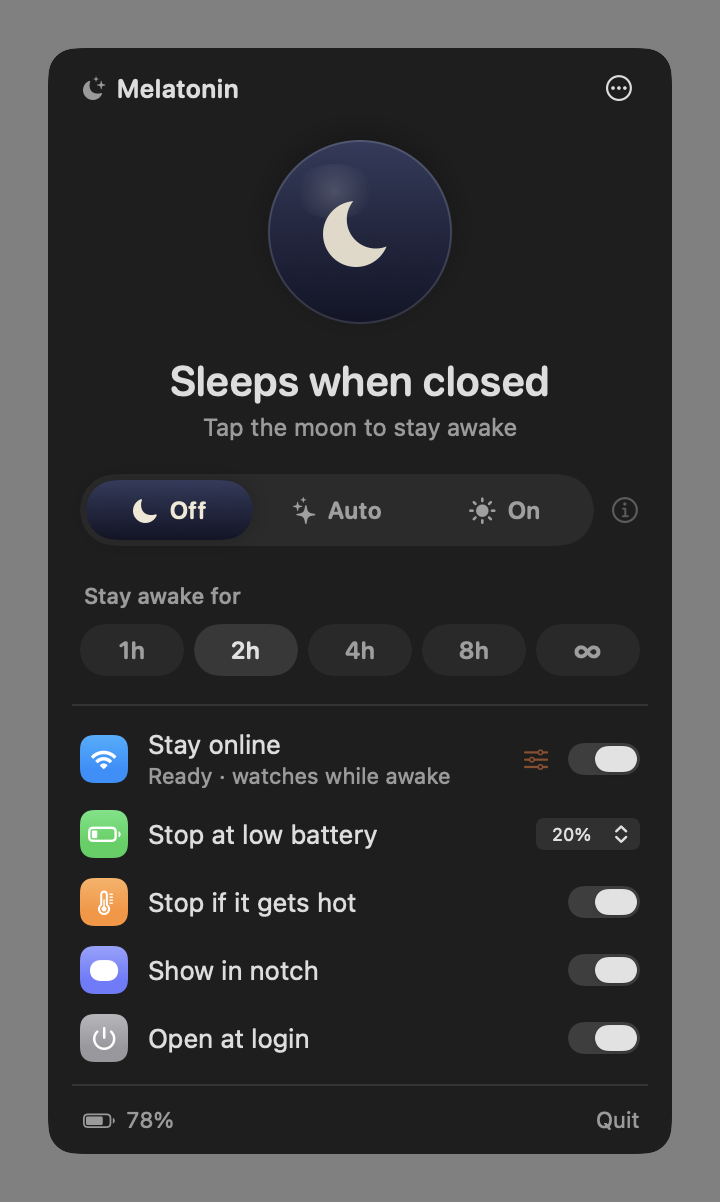
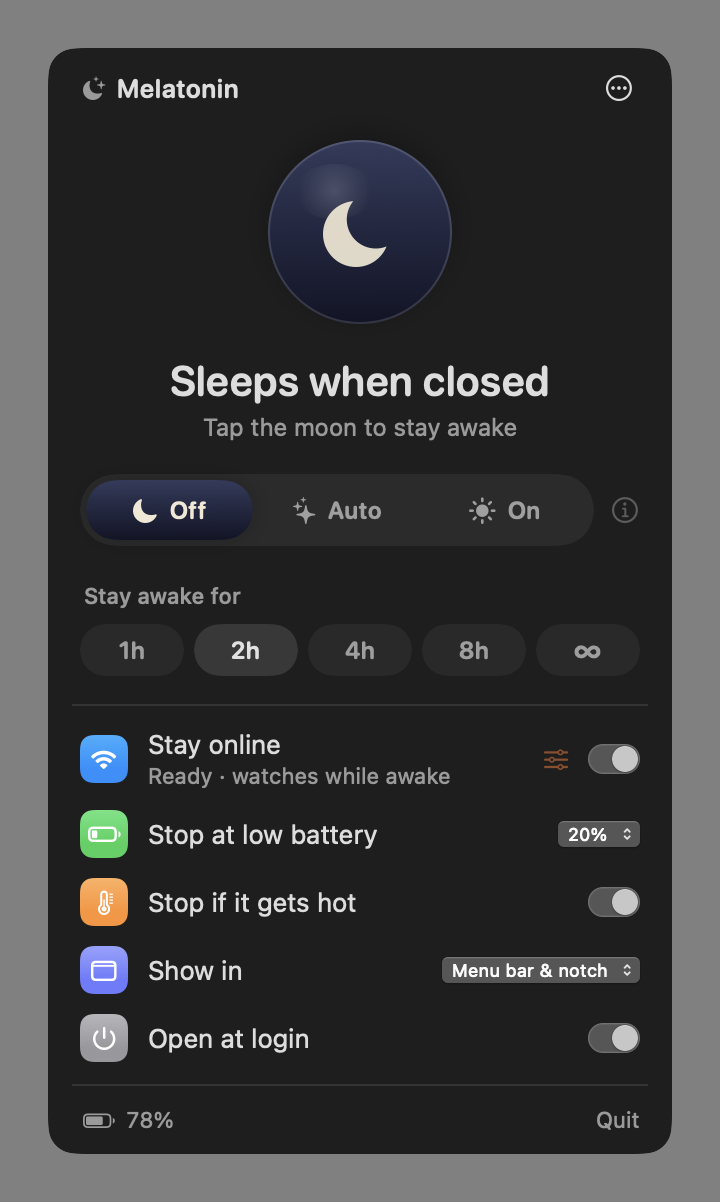
Docs: menu bar, notch or both; Antigravity in the agent list

diff --git a/docs/index.html b/docs/index.html
@@ -203,7 +203,7 @@
 
 <section class="wrap">
   <h2>Lives in your notch</h2>
-  <p class="sub">A warm lamp glows beside the camera while your Mac is staying up, with the time left. Hover to expand. No notch? It hangs from the menu bar instead.</p>
+  <p class="sub">A warm lamp glows beside the camera while your Mac is staying up, with the time left. Hover to expand. No notch? It hangs from the menu bar instead. Rather have just the menu bar icon, or just the notch? Pick either, or both.</p>
   <img class="wide-shot" src="images/notch-expanded-on.png" alt="Melatonin expanded in the notch" width="760" height="250" loading="lazy">
   <img class="wide-shot" src="images/notch-recap.png" alt="While you were away summary in the notch" width="760" height="250" loading="lazy">
   <div class="shots">

diff --git a/README.hi.md b/README.hi.md
@@ -43,10 +43,10 @@
 ## फ़ीचर्स
 
 - **आपके नॉच में रहता है।** Melatonin चालू होने पर कैमरे के बगल में एक गर्म रोशनी वाला लैंप जलता है और बचा हुआ समय दिखता है। उस पर माउस ले जाते ही पूरा कंट्रोल पैनल खुल जाता है। जिन डिस्प्ले में नॉच नहीं है, वहाँ यह पिल मेन्यू बार से लटकी दिखती है।
-- **मेन्यू बार स्विच।** आधे चाँद की सिर्फ़ आउटलाइन का मतलब है कि आपका Mac स्लीप में चला जाएगा; आधे चाँद में एम्बर लैंप दिखे, तो मतलब वह जागता रहेगा।
+- **मेन्यू बार स्विच।** आधे चाँद की सिर्फ़ आउटलाइन का मतलब है कि आपका Mac स्लीप में चला जाएगा; आधे चाँद में एम्बर लैंप दिखे, तो मतलब वह जागता रहेगा। **यहाँ दिखाएँ** में मेन्यू बार, नॉच या दोनों में से चुनें।
 - **टाइमर।** 1, 2, 4 या 8 घंटे, या जब तक आप खुद बंद न करें।
 - **चाँद, ऑटो, लैंप।** लैंप के नीचे एक ही स्विच: **बंद** पर Mac सामान्य रूप से स्लीप करता है, **ऑटो** पर सिर्फ़ एजेंट के काम करने तक जागा रहता है, **चालू** पर टाइमर खत्म होने तक जागा रहता है और फिर पिछले मोड पर लौट आता है।
-- **AI एजेंट के लिए ऑटो।** Mac तभी जागता रहता है जब कोई एजेंट सच में काम कर रहा हो: Claude Code, Codex, Hermes, OpenCode, T3 Code, Gemini CLI, Cursor Agent, Amp, Goose या Crush। पहचान के लिए हर एजेंट के पूरे process tree की CPU गतिविधि देखी जाती है, इसलिए प्रॉम्प्ट पर खाली बैठा एजेंट नहीं गिना जाता। Claude Code और Codex के सेशन लॉग भी पढ़े जाते हैं, इसलिए मॉडल का लंबा जवाब, चुपचाप चलती कमांड या बैकग्राउंड सबएजेंट भी काम में गिने जाते हैं। T3 Code से चलाए गए एजेंट T3 Code के खाते में गिने जाते हैं।
+- **AI एजेंट के लिए ऑटो।** Mac तभी जागता रहता है जब कोई एजेंट सच में काम कर रहा हो: Claude Code, Codex, Hermes, OpenCode, T3 Code, Gemini CLI, Cursor Agent, Amp, Goose, Crush या Antigravity। पहचान के लिए हर एजेंट के पूरे process tree की CPU गतिविधि देखी जाती है, इसलिए प्रॉम्प्ट पर खाली बैठा एजेंट नहीं गिना जाता। Claude Code और Codex के सेशन लॉग भी पढ़े जाते हैं, इसलिए मॉडल का लंबा जवाब, चुपचाप चलती कमांड या बैकग्राउंड सबएजेंट भी काम में गिने जाते हैं। T3 Code से चलाए गए एजेंट T3 Code के खाते में गिने जाते हैं।
 - **ऑनलाइन रहें।** Melatonin जब आपके Mac को जगाए रखता है और इंटरनेट कट जाता है, जैसे ढक्कन बंद करके ऑफ़िस के Wi-Fi से बाहर निकलने पर, तो यह आपके सेव किए गए नेटवर्क में से चुनी गई प्राथमिकता सूची में रेंज में मौजूद पहले नेटवर्क से जुड़ जाता है, जैसे आपके फ़ोन का हॉटस्पॉट। नाम से नेटवर्क चुनने के लिए लोकेशन की अनुमति चाहिए, क्योंकि macOS Wi-Fi के नाम सिर्फ़ उन्हीं ऐप को दिखाता है जिनके पास यह अनुमति हो; आपकी लोकेशन कभी इस्तेमाल नहीं होती। कोई भी काम न करे तो यह Wi-Fi को रीस्टार्ट करता है ताकि macOS खुद किसी सेव किए गए नेटवर्क से जुड़ जाए।
 - **आपकी गैरमौजूदगी में।** Mac पर लौटने पर नॉच बताता है कि क्या हुआ: Melatonin ने कितनी देर जगाए रखा, किन एजेंट ने कितनी देर काम किया, Wi-Fi कितनी बार कटकर फिर जुड़ा और कितनी बैटरी खर्च हुई।
 - **सुरक्षा सबसे पहले।**

diff --git a/README.ru.md b/README.ru.md
@@ -43,10 +43,10 @@
 ## Возможности
 
 - **Живет в вырезе.** Когда Melatonin включен, рядом с камерой загорается теплая лампа и видно, сколько времени осталось. Наведите курсор — откроется полная панель управления. На дисплеях без выреза плашка просто свисает со строки меню.
-- **Переключатель в строке меню.** Контур полумесяца — Mac уснет; полумесяц с янтарной лампой внутри — не уснет.
+- **Переключатель в строке меню.** Контур полумесяца — Mac уснет; полумесяц с янтарной лампой внутри — не уснет. В пункте **Показывать** можно выбрать строку меню, вырез или и то, и другое.
 - **Таймеры.** 1, 2, 4 или 8 часов — или пока вы сами не выключите.
 - **Луна, авто, лампа.** Один переключатель под лампой: «**Выкл.**» — Mac засыпает как обычно, «**Авто**» — не спит, только пока работают агенты, «**Вкл.**» — не спит до конца таймера, а потом возвращается в прежний режим.
-- **Авторежим для ИИ-агентов.** Mac не спит, только пока агент действительно работает: Claude Code, Codex, Hermes, OpenCode, T3 Code, Gemini CLI, Cursor Agent, Amp, Goose или Crush. Melatonin следит за загрузкой CPU во всем дереве процессов каждого агента, так что агент, который просто ждет вашего ввода, не в счет. Для Claude Code и Codex Melatonin ещё читает журналы сессий, поэтому долгий ответ модели, тихая команда или фоновый субагент тоже считаются работой. Агенты, запущенные из T3 Code, засчитываются T3 Code.
+- **Авторежим для ИИ-агентов.** Mac не спит, только пока агент действительно работает: Claude Code, Codex, Hermes, OpenCode, T3 Code, Gemini CLI, Cursor Agent, Amp, Goose, Crush или Antigravity. Melatonin следит за загрузкой CPU во всем дереве процессов каждого агента, так что агент, который просто ждет вашего ввода, не в счет. Для Claude Code и Codex Melatonin ещё читает журналы сессий, поэтому долгий ответ модели, тихая команда или фоновый субагент тоже считаются работой. Агенты, запущенные из T3 Code, засчитываются T3 Code.
 - **Оставаться на связи.** Если интернет пропадёт, пока Melatonin не даёт Mac уснуть (например, вы закрыли крышку и вышли из зоны офисного Wi-Fi), он подключится к первой доступной сети из списка приоритетов, который вы выбираете среди сохранённых сетей, например к точке доступа телефона. Чтобы выбирать сети по имени, нужен доступ к геопозиции: macOS показывает имена Wi-Fi только приложениям с этим доступом, а само местоположение не используется. Если ни одна сеть не подошла, он перезапускает Wi-Fi, чтобы macOS сама подключилась к сохранённой сети.
 - **Пока вас не было.** Когда вы вернётесь, вырез расскажет, что произошло: сколько Melatonin не давал Mac уснуть, какие агенты и сколько работали, сколько раз восстанавливалось Wi-Fi и сколько ушло заряда.
 - **Безопасность прежде всего.**

diff --git a/README.ar.md b/README.ar.md
@@ -49,10 +49,10 @@
 ## الميزات
 
 - **يسكن في النتوء.** عندما يكون Melatonin قيد التشغيل، يتوهّج مصباح دافئ بجوار الكاميرا ومعه الوقت المتبقي. مرّر المؤشر فوقه لتظهر لوحة التحكم كاملة. وعلى الشاشات التي لا تحتوي على نتوء، تتدلّى الكبسولة من شريط القوائم بدلًا من ذلك.
-- **مفتاح في شريط القوائم.** هلال مفرَّغ يعني أن جهاز Mac سيدخل في الإسبات، وهلال يحتضن مصباحًا كهرمانيًا يعني أنه لن يفعل.
+- **مفتاح في شريط القوائم.** هلال مفرَّغ يعني أن جهاز Mac سيدخل في الإسبات، وهلال يحتضن مصباحًا كهرمانيًا يعني أنه لن يفعل. ومن **العرض في** اختر شريط القوائم أو النتوء أو كليهما.
 - **مؤقتات.** لمدة 1 أو 2 أو 4 أو 8 ساعات، أو حتى تُوقفه بنفسك.
 - **قمر، تلقائي، مصباح.** مفتاح واحد أسفل المصباح: **إيقاف** يترك جهاز Mac ينام، و**تلقائي** يبقيه مستيقظًا فقط أثناء عمل الوكلاء، و**تشغيل** يبقيه مستيقظًا حتى ينتهي المؤقت ثم يعود إلى الوضع السابق.
-- **تلقائي لوكلاء الذكاء الاصطناعي.** يبقى الجهاز مستيقظًا فقط ما دام أحد الوكلاء يعمل فعلًا: Claude Code أو Codex أو Hermes أو OpenCode أو T3 Code أو Gemini CLI أو Cursor Agent أو Amp أو Goose أو Crush. يعتمد الاكتشاف على نشاط المعالج عبر شجرة العمليات الخاصة بكل وكيل، لذا لا يُحتسب الوكيل الذي يقف خاملًا بانتظار أوامرك. ويقرأ أيضًا سجلات جلسات Claude Code وCodex، لذا يُحتسب الردّ الطويل من النموذج أو الأمر الذي يعمل بهدوء أو الوكيل الفرعي في الخلفية عملًا أيضًا. والوكلاء الذين يُطلقهم T3 Code يُحتسبون لـ T3 Code.
+- **تلقائي لوكلاء الذكاء الاصطناعي.** يبقى الجهاز مستيقظًا فقط ما دام أحد الوكلاء يعمل فعلًا: Claude Code أو Codex أو Hermes أو OpenCode أو T3 Code أو Gemini CLI أو Cursor Agent أو Amp أو Goose أو Crush أو Antigravity. يعتمد الاكتشاف على نشاط المعالج عبر شجرة العمليات الخاصة بكل وكيل، لذا لا يُحتسب الوكيل الذي يقف خاملًا بانتظار أوامرك. ويقرأ أيضًا سجلات جلسات Claude Code وCodex، لذا يُحتسب الردّ الطويل من النموذج أو الأمر الذي يعمل بهدوء أو الوكيل الفرعي في الخلفية عملًا أيضًا. والوكلاء الذين يُطلقهم T3 Code يُحتسبون لـ T3 Code.
 - **البقاء متصلًا.** إذا انقطع الإنترنت بينما يُبقي Melatonin جهاز Mac مستيقظًا، مثلًا عندما تغلق الغطاء وتغادر نطاق Wi-Fi المكتب، فإنه يتصل بأول شبكة في النطاق من قائمة أولويات تختارها من شبكاتك المحفوظة، مثل نقطة اتصال هاتفك. يتطلب اختيار الشبكات بالاسم إذن الوصول إلى الموقع، لأن macOS لا يعرض أسماء شبكات Wi-Fi إلا للتطبيقات التي تملكه، ولا يُستخدم موقعك أبدًا. وإذا لم تنجح أي منها، يعيد تشغيل Wi-Fi ليعود macOS تلقائيًا إلى شبكة محفوظة.
 - **أثناء غيابك.** عندما تعود إلى جهاز Mac، تخبرك منطقة النتوء بما حدث: كم من الوقت أبقاه Melatonin مستيقظًا، وأي الوكلاء عملوا ولكم من الوقت، وكم مرة استُعيد اتصال Wi-Fi، وكم استُهلك من البطارية.
 - **الأمان أولًا.**

diff --git a/README.ja.md b/README.ja.md
@@ -43,10 +43,10 @@ Claude Codeに長いタスクを任せ、フタを閉じて席を離れる。す
 ## 機能
 
 - **ノッチに住む**：Melatoninがオンの間は、カメラの横に暖かなランプが灯り、残り時間を表示します。ポインタを重ねると、すべての操作ができるパネルに広がります。ノッチのないディスプレイでは、代わりにメニューバーから吊り下がるピル型で表示されます。
-- **メニューバーのスイッチ**：三日月の輪郭だけならMacはスリープします。三日月が琥珀色のランプを抱えていれば、スリープしません。
+- **メニューバーのスイッチ**：三日月の輪郭だけならMacはスリープします。三日月が琥珀色のランプを抱えていれば、スリープしません。**表示場所**で、メニューバー・ノッチ・その両方から選べます。
 - **タイマー**：1、2、4、8時間、またはオフにするまで。
 - **月・自動・ランプ**：ランプの下のスイッチひとつで切り替えます。**オフ**なら Mac は普通にスリープ、**自動**ならエージェントが作業している間だけ起きたまま、**オン**ならタイマーが終わるまで起きていて、その後もとのモードに戻ります。
-- **AIエージェント自動モード**：Claude Code、Codex、Hermes、OpenCode、T3 Code、Gemini CLI、Cursor Agent、Amp、Goose、Crushが実際に作業している間だけ起きています。各エージェントのプロセスツリー全体のCPU使用状況を見て判定するので、プロンプトで待機しているだけのエージェントはカウントされません。Claude CodeとCodexはセッションログも読むので、モデルの長い応答待ちや静かに動くコマンド、バックグラウンドのサブエージェントも作業中として扱います。T3 Codeから起動されたエージェントはT3 Codeとして扱われます。
+- **AIエージェント自動モード**：Claude Code、Codex、Hermes、OpenCode、T3 Code、Gemini CLI、Cursor Agent、Amp、Goose、Crush、Antigravityが実際に作業している間だけ起きています。各エージェントのプロセスツリー全体のCPU使用状況を見て判定するので、プロンプトで待機しているだけのエージェントはカウントされません。Claude CodeとCodexはセッションログも読むので、モデルの長い応答待ちや静かに動くコマンド、バックグラウンドのサブエージェントも作業中として扱います。T3 Codeから起動されたエージェントはT3 Codeとして扱われます。
 - **オンラインを維持**：Melatonin が Mac を起こしている間にインターネットが切れたら（たとえばフタを閉じてオフィスの Wi-Fi 圏外に出たとき）、保存済みネットワークから選んだ優先順位リストの上から、圏内にある最初のネットワーク（スマホのテザリングなど）に接続します。名前でネットワークを選ぶには位置情報の許可が必要です。macOS は位置情報を許可したアプリにしか Wi-Fi 名を見せないためで、位置そのものは使いません。どれもつながらなければ Wi-Fi を再起動し、macOS が保存済みネットワークに自動で再接続できるようにします。
 - **離席中のできごと**：Mac に戻るとノッチがその間のことを教えてくれます。どれだけ起こしておいたか、どのエージェントがどれくらい作業したか、Wi-Fi の切断から何回復旧したか、バッテリーをどれだけ使ったか。
 - **安全第一**：

diff --git a/README.fr.md b/README.fr.md
@@ -43,10 +43,10 @@ Les apps anti-veille comme `caffeinate`, KeepingYouAwake et la plupart de leurs 
 ## Fonctionnalités
 
 - **Niché dans l’encoche.** Quand Melatonin est activé, une lampe chaleureuse s’allume à côté de la caméra et affiche le temps restant. Survolez-la pour déployer toutes les commandes. Sur les écrans sans encoche, la pastille se suspend à la barre des menus.
-- **Interrupteur dans la barre des menus.** Un simple contour de croissant de lune : votre Mac se mettra en veille. Un croissant qui tient une lampe ambrée : il restera éveillé.
+- **Interrupteur dans la barre des menus.** Un simple contour de croissant de lune : votre Mac se mettra en veille. Un croissant qui tient une lampe ambrée : il restera éveillé. Dans **Afficher dans**, choisissez la barre des menus, l’encoche ou les deux.
 - **Minuteurs.** 1, 2, 4 ou 8 heures, ou jusqu’à ce que vous le désactiviez.
 - **Lune, auto, lampe.** Un seul interrupteur sous la lampe : **Désactivé** laisse votre Mac se mettre en veille, **Auto** le garde éveillé seulement pendant que les agents travaillent, **Activé** le garde éveillé jusqu’à la fin du minuteur, puis revient au mode précédent.
-- **Auto pour les agents IA.** Reste éveillé uniquement quand un agent travaille vraiment : Claude Code, Codex, Hermes, OpenCode, T3 Code, Gemini CLI, Cursor Agent, Amp, Goose ou Crush. La détection surveille l’activité CPU de toute l’arborescence de processus de chaque agent : un agent qui attend sagement à son invite ne compte donc pas. Melatonin lit aussi les journaux de session de Claude Code et Codex : une longue réponse du modèle, une commande silencieuse ou un sous-agent en arrière-plan comptent donc bien comme du travail. Les agents lancés par T3 Code sont attribués à T3 Code.
+- **Auto pour les agents IA.** Reste éveillé uniquement quand un agent travaille vraiment : Claude Code, Codex, Hermes, OpenCode, T3 Code, Gemini CLI, Cursor Agent, Amp, Goose, Crush ou Antigravity. La détection surveille l’activité CPU de toute l’arborescence de processus de chaque agent : un agent qui attend sagement à son invite ne compte donc pas. Melatonin lit aussi les journaux de session de Claude Code et Codex : une longue réponse du modèle, une commande silencieuse ou un sous-agent en arrière-plan comptent donc bien comme du travail. Les agents lancés par T3 Code sont attribués à T3 Code.
 - **Rester en ligne.** Si Internet est coupé pendant que Melatonin garde votre Mac éveillé, par exemple quand vous fermez l’écran et quittez le Wi-Fi du bureau, il rejoint le premier réseau à portée d’une liste de priorité que vous choisissez parmi vos réseaux enregistrés, comme le partage de connexion de votre téléphone. Choisir un réseau par son nom demande l’accès à la position, car macOS ne montre les noms Wi-Fi qu’aux apps qui l’ont ; votre position n’est jamais utilisée. Si aucun ne fonctionne, il redémarre le Wi-Fi pour que macOS rejoigne seul un réseau enregistré.
 - **Pendant votre absence.** À votre retour, l’encoche résume ce qui s’est passé : combien de temps Melatonin a gardé le Mac éveillé, quels agents ont travaillé et combien de temps, combien de coupures Wi-Fi ont été rattrapées et combien de batterie a été utilisée.
 - **La sécurité avant tout.**

diff --git a/README.de.md b/README.de.md
@@ -43,10 +43,10 @@ Wachhalte-Apps wie `caffeinate`, KeepingYouAwake und die meisten ihrer Verwandte
 ## Funktionen
 
 - **Wohnt in deiner Notch.** Ist Melatonin eingeschaltet, leuchtet neben der Kamera eine warme Lampe und zeigt die verbleibende Zeit. Fahr mit dem Zeiger darüber, und alle Bedienelemente klappen auf. Auf Displays ohne Notch hängt die Anzeige stattdessen an der Menüleiste.
-- **Schalter in der Menüleiste.** Nur der Umriss einer Mondsichel heißt: Dein Mac geht in den Ruhezustand. Hält die Sichel eine bernsteinfarbene Lampe, bleibt er wach.
+- **Schalter in der Menüleiste.** Nur der Umriss einer Mondsichel heißt: Dein Mac geht in den Ruhezustand. Hält die Sichel eine bernsteinfarbene Lampe, bleibt er wach. Unter **Anzeigen in** wählst du Menüleiste, Notch oder beides.
 - **Timer.** 1, 2, 4 oder 8 Stunden – oder bis du es ausschaltest.
 - **Mond, Auto, Lampe.** Ein Schalter unter der Lampe: **Aus** lässt deinen Mac schlafen, **Auto** hält ihn nur wach, solange Agenten arbeiten, **Ein** hält ihn wach, bis der Timer abläuft, und kehrt dann zum vorherigen Modus zurück.
-- **Automatisch für KI-Agenten.** Bleibt nur wach, solange ein Agent wirklich arbeitet: Claude Code, Codex, Hermes, OpenCode, T3 Code, Gemini CLI, Cursor Agent, Amp, Goose oder Crush. Die Erkennung prüft die CPU-Aktivität im gesamten Prozessbaum jedes Agenten. Ein Agent, der untätig am Prompt wartet, zählt also nicht. Bei Claude Code und Codex liest Melatonin außerdem die Sitzungsprotokolle, sodass eine lange Modellantwort, ein leiser Befehl oder ein Subagent im Hintergrund trotzdem als Arbeit zählt. Von T3 Code gestartete Agenten werden T3 Code zugerechnet.
+- **Automatisch für KI-Agenten.** Bleibt nur wach, solange ein Agent wirklich arbeitet: Claude Code, Codex, Hermes, OpenCode, T3 Code, Gemini CLI, Cursor Agent, Amp, Goose, Crush oder Antigravity. Die Erkennung prüft die CPU-Aktivität im gesamten Prozessbaum jedes Agenten. Ein Agent, der untätig am Prompt wartet, zählt also nicht. Bei Claude Code und Codex liest Melatonin außerdem die Sitzungsprotokolle, sodass eine lange Modellantwort, ein leiser Befehl oder ein Subagent im Hintergrund trotzdem als Arbeit zählt. Von T3 Code gestartete Agenten werden T3 Code zugerechnet.
 - **Online bleiben.** Fällt das Internet aus, während Melatonin deinen Mac wach hält, etwa wenn du den Deckel schließt und das Büro-WLAN verlässt, verbindet es sich mit dem ersten erreichbaren Netzwerk aus einer Prioritätsliste, die du aus deinen gespeicherten Netzwerken auswählst, zum Beispiel dem Hotspot deines Handys. Netzwerke nach Namen auszuwählen braucht Zugriff auf den Standort, weil macOS WLAN-Namen nur Apps mit dieser Berechtigung zeigt; dein Standort selbst wird nie verwendet. Klappt keines, startet es das WLAN neu, damit macOS selbst wieder einem gespeicherten Netzwerk beitritt.
 - **Während du weg warst.** Wenn du zurückkommst, zeigt dir die Notch, was passiert ist: wie lange Melatonin den Mac wach gehalten hat, welche Agenten wie lange gearbeitet haben, wie oft das WLAN wiederhergestellt wurde und wie viel Akku verbraucht wurde.
 - **Sicherheit zuerst.**

diff --git a/README.ko.md b/README.ko.md
@@ -43,10 +43,10 @@ Claude Code에 긴 작업을 맡기고 뚜껑을 닫고 자리를 비우면, 맥
 ## 기능
 
 - **노치에 살아요.** 켜져 있으면 카메라 옆에 따뜻한 램프가 빛나고 남은 시간이 보여요. 마우스를 올리면 전체 조작 패널로 펼쳐져요. 노치가 없는 모니터에서는 메뉴바 가운데에 알약 모양으로 붙어요.
-- **메뉴바 스위치.** 초승달 테두리만 보이면 잠드는 상태, 초승달이 주황 램프를 품고 있으면 깨어 있는 상태예요.
+- **메뉴바 스위치.** 초승달 테두리만 보이면 잠드는 상태, 초승달이 주황 램프를 품고 있으면 깨어 있는 상태예요. **표시 위치**에서 메뉴바, 노치, 둘 다 중에 고를 수 있어요.
 - **타이머.** 1·2·4·8시간, 또는 직접 끌 때까지.
 - **달 · 자동 · 해.** 램프 아래 스위치 하나로 정해요. **끔**은 맥이 잠들게 두고, **자동**은 에이전트가 일하는 동안만 깨워두고, **켬**은 타이머가 끝날 때까지 깨워둔 뒤 원래 모드로 돌아가요.
-- **AI 에이전트 자동 감지.** Claude Code, Codex, Hermes, OpenCode, T3 Code, Gemini CLI, Cursor Agent, Amp, Goose, Crush가 실제로 일하는 동안에만 깨어 있어요. 에이전트와 그 하위 프로세스의 CPU 사용량을 보기 때문에 프롬프트 앞에서 대기 중인 에이전트는 치지 않아요. Claude Code와 Codex는 대화 기록도 읽어서, 모델이 오래 생각하거나 조용히 도는 명령, 백그라운드 서브에이전트도 일하는 중으로 쳐요. T3 Code가 띄운 에이전트는 T3 Code로 표시돼요.
+- **AI 에이전트 자동 감지.** Claude Code, Codex, Hermes, OpenCode, T3 Code, Gemini CLI, Cursor Agent, Amp, Goose, Crush, Antigravity가 실제로 일하는 동안에만 깨어 있어요. 에이전트와 그 하위 프로세스의 CPU 사용량을 보기 때문에 프롬프트 앞에서 대기 중인 에이전트는 치지 않아요. Claude Code와 Codex는 대화 기록도 읽어서, 모델이 오래 생각하거나 조용히 도는 명령, 백그라운드 서브에이전트도 일하는 중으로 쳐요. T3 Code가 띄운 에이전트는 T3 Code로 표시돼요.
 - **연결 유지.** 맥이 깨어 있는 동안 인터넷이 끊기면(예: 뚜껑을 닫고 사무실 Wi-Fi 범위를 벗어났을 때), 저장된 네트워크 중에서 고른 우선순위 목록을 위에서부터 보고 범위 안에 있는 첫 번째 네트워크(휴대폰 핫스팟 등)에 연결해요. 이름으로 네트워크를 고르려면 위치 권한이 필요해요. macOS가 위치 권한이 있는 앱에만 Wi-Fi 이름을 보여주기 때문이고, 위치 자체는 쓰지 않아요. 모두 실패하면 Wi-Fi를 껐다 켜서 macOS가 저장된 네트워크에 알아서 붙게 해요.
 - **자리 비운 사이.** 맥으로 돌아오면 노치가 그동안 있었던 일을 알려줘요. 얼마나 깨워뒀는지, 어떤 에이전트가 얼마나 일했는지, Wi-Fi 끊김을 몇 번 복구했는지, 배터리를 얼마나 썼는지요.
 - **안전장치.**

diff --git a/README.es.md b/README.es.md
@@ -43,10 +43,10 @@ Las apps para mantener el Mac despierto, como `caffeinate`, KeepingYouAwake y ca
 ## Funciones
 
 - **Vive en tu notch.** Cuando Melatonin está activado, una lámpara cálida brilla junto a la cámara con el tiempo restante. Pasa el puntero por encima para desplegar todos los controles. En pantallas sin notch, la píldora cuelga de la barra de menús.
-- **Interruptor en la barra de menús.** Si ves solo el contorno de una media luna, tu Mac se dormirá; si la media luna sostiene una lámpara ámbar, no.
+- **Interruptor en la barra de menús.** Si ves solo el contorno de una media luna, tu Mac se dormirá; si la media luna sostiene una lámpara ámbar, no. En **Mostrar en** eliges la barra de menús, el notch o ambos.
 - **Temporizadores.** 1, 2, 4 u 8 horas, o hasta que lo desactives.
 - **Luna, auto, lámpara.** Un solo interruptor bajo la lámpara: **Desactivado** deja dormir a tu Mac, **Auto** lo mantiene despierto solo mientras trabajan los agentes y **Activado** lo mantiene despierto hasta que termina el temporizador; después vuelve al modo anterior.
-- **Automático con agentes de IA.** Se mantiene despierto solo mientras un agente está trabajando de verdad: Claude Code, Codex, Hermes, OpenCode, T3 Code, Gemini CLI, Cursor Agent, Amp, Goose o Crush. La detección mira la actividad de CPU de todo el árbol de procesos de cada agente, así que un agente esperando en su prompt no cuenta. Además lee los registros de sesión de Claude Code y Codex, así que una respuesta larga del modelo, un comando silencioso o un subagente en segundo plano también cuentan como trabajo. Los agentes que lanza T3 Code se atribuyen a T3 Code.
+- **Automático con agentes de IA.** Se mantiene despierto solo mientras un agente está trabajando de verdad: Claude Code, Codex, Hermes, OpenCode, T3 Code, Gemini CLI, Cursor Agent, Amp, Goose, Crush o Antigravity. La detección mira la actividad de CPU de todo el árbol de procesos de cada agente, así que un agente esperando en su prompt no cuenta. Además lee los registros de sesión de Claude Code y Codex, así que una respuesta larga del modelo, un comando silencioso o un subagente en segundo plano también cuentan como trabajo. Los agentes que lanza T3 Code se atribuyen a T3 Code.
 - **Seguir conectado.** Si se cae internet mientras Melatonin mantiene tu Mac despierto, por ejemplo al cerrar la tapa y salir del Wi-Fi de la oficina, se conecta a la primera red al alcance de una lista de prioridad que eliges entre tus redes guardadas, como el punto de acceso de tu teléfono. Elegir redes por nombre requiere acceso a la ubicación, porque macOS solo muestra los nombres de Wi-Fi a las apps que lo tienen; tu ubicación nunca se usa. Si ninguna funciona, reinicia el Wi-Fi para que macOS vuelva a unirse a una red guardada por su cuenta.
 - **Mientras no estabas.** Al volver a tu Mac, el notch te cuenta qué pasó: cuánto tiempo lo mantuvo despierto Melatonin, qué agentes trabajaron y durante cuánto, de cuántas caídas de Wi-Fi se recuperó y cuánta batería usó.
 - **La seguridad, lo primero.**

diff --git a/README.pt-BR.md b/README.pt-BR.md
@@ -43,10 +43,10 @@ Apps para manter o Mac acordado, como `caffeinate`, KeepingYouAwake e a maioria 
 ## Recursos
 
 - **Mora no seu notch.** Quando o Melatonin está ativado, uma lâmpada de luz quente brilha ao lado da câmera mostrando o tempo restante. Passe o ponteiro por cima para abrir todos os controles. Em telas sem notch, a pílula fica pendurada na barra de menus.
-- **Interruptor na barra de menus.** Só o contorno de uma lua crescente: seu Mac vai dormir. Lua crescente com uma lâmpada âmbar: ele fica acordado.
+- **Interruptor na barra de menus.** Só o contorno de uma lua crescente: seu Mac vai dormir. Lua crescente com uma lâmpada âmbar: ele fica acordado. Em **Mostrar em**, escolha a barra de menus, o notch ou os dois.
 - **Timers.** 1, 2, 4 ou 8 horas, ou até você desativar.
 - **Lua, auto, lâmpada.** Um único seletor abaixo da lâmpada: **Desativado** deixa o Mac dormir, **Auto** o mantém acordado só enquanto os agentes trabalham e **Ativado** o mantém acordado até o timer acabar; depois volta ao modo anterior.
-- **Automático com agentes de IA.** Fica acordado só enquanto um agente está realmente trabalhando: Claude Code, Codex, Hermes, OpenCode, T3 Code, Gemini CLI, Cursor Agent, Amp, Goose ou Crush. A detecção observa a atividade de CPU em toda a árvore de processos de cada agente, então um agente parado no prompt não conta. Ele também lê os registros de sessão do Claude Code e do Codex, então uma resposta longa do modelo, um comando silencioso ou um subagente em segundo plano também contam como trabalho. Agentes iniciados pelo T3 Code contam como T3 Code.
+- **Automático com agentes de IA.** Fica acordado só enquanto um agente está realmente trabalhando: Claude Code, Codex, Hermes, OpenCode, T3 Code, Gemini CLI, Cursor Agent, Amp, Goose, Crush ou Antigravity. A detecção observa a atividade de CPU em toda a árvore de processos de cada agente, então um agente parado no prompt não conta. Ele também lê os registros de sessão do Claude Code e do Codex, então uma resposta longa do modelo, um comando silencioso ou um subagente em segundo plano também contam como trabalho. Agentes iniciados pelo T3 Code contam como T3 Code.
 - **Manter conexão.** Se a internet cair enquanto o Melatonin mantém seu Mac acordado, por exemplo quando você fecha a tampa e sai do Wi-Fi do escritório, ele entra na primeira rede ao alcance de uma lista de prioridade que você escolhe entre suas redes salvas, como o hotspot do seu celular. Escolher redes pelo nome exige acesso à localização, porque o macOS só mostra nomes de Wi-Fi para apps com esse acesso; sua localização nunca é usada. Se nenhuma funcionar, ele reinicia o Wi-Fi para o macOS voltar sozinho a uma rede salva.
 - **Enquanto você estava fora.** Ao voltar para o Mac, o notch conta o que aconteceu: quanto tempo o Melatonin o manteve acordado, quais agentes trabalharam e por quanto tempo, de quantas quedas de Wi-Fi ele se recuperou e quanta bateria foi usada.
 - **Segurança em primeiro lugar.**

diff --git a/README.id.md b/README.id.md
@@ -43,10 +43,10 @@ Aplikasi anti-tidur seperti `caffeinate`, KeepingYouAwake, dan sebagian besar ap
 ## Fitur
 
 - **Tinggal di notch.** Saat Melatonin menyala, lampu hangat berpendar di samping kamera beserta sisa waktunya. Arahkan kursor ke sana untuk membuka panel kontrol lengkap. Di layar tanpa notch, pil ini menggantung dari bar menu.
-- **Sakelar di bar menu.** Garis bulan sabit berarti Mac Anda akan tidur; bulan sabit yang memeluk lampu amber berarti Mac tetap terjaga.
+- **Sakelar di bar menu.** Garis bulan sabit berarti Mac Anda akan tidur; bulan sabit yang memeluk lampu amber berarti Mac tetap terjaga. Di **Tampilkan di**, pilih bar menu, notch, atau keduanya.
 - **Timer.** 1, 2, 4, atau 8 jam, atau sampai Anda mematikannya.
 - **Bulan, otomatis, lampu.** Satu sakelar di bawah lampu: **Mati** membiarkan Mac tidur, **Otomatis** membuatnya terjaga hanya selama agen bekerja, dan **Nyala** membuatnya terjaga sampai timer selesai, lalu kembali ke mode sebelumnya.
-- **Otomatis untuk agen AI.** Tetap terjaga hanya selama ada agen yang benar-benar bekerja: Claude Code, Codex, Hermes, OpenCode, T3 Code, Gemini CLI, Cursor Agent, Amp, Goose, atau Crush. Deteksinya melihat aktivitas CPU di seluruh pohon proses tiap agen, jadi agen yang cuma diam menunggu di prompt tidak dihitung. Untuk Claude Code dan Codex, Melatonin juga membaca log sesinya, jadi balasan model yang lama, perintah yang berjalan diam-diam, atau subagen di latar belakang tetap dihitung sebagai kerja. Agen yang dijalankan oleh T3 Code dihitung sebagai T3 Code.
+- **Otomatis untuk agen AI.** Tetap terjaga hanya selama ada agen yang benar-benar bekerja: Claude Code, Codex, Hermes, OpenCode, T3 Code, Gemini CLI, Cursor Agent, Amp, Goose, Crush, atau Antigravity. Deteksinya melihat aktivitas CPU di seluruh pohon proses tiap agen, jadi agen yang cuma diam menunggu di prompt tidak dihitung. Untuk Claude Code dan Codex, Melatonin juga membaca log sesinya, jadi balasan model yang lama, perintah yang berjalan diam-diam, atau subagen di latar belakang tetap dihitung sebagai kerja. Agen yang dijalankan oleh T3 Code dihitung sebagai T3 Code.
 - **Tetap online.** Jika internet terputus saat Melatonin membuat Mac tetap terjaga, misalnya saat kamu menutup layar dan keluar dari jangkauan Wi-Fi kantor, Melatonin tersambung ke jaringan pertama dalam jangkauan dari daftar prioritas yang kamu pilih dari jaringan tersimpan, seperti hotspot ponselmu. Memilih jaringan berdasarkan nama butuh izin lokasi, karena macOS hanya menampilkan nama Wi-Fi ke app yang punya izin itu; lokasimu sendiri tidak pernah dipakai. Jika semuanya gagal, Melatonin memulai ulang Wi-Fi agar macOS tersambung sendiri ke jaringan tersimpan.
 - **Selama kamu pergi.** Saat kembali ke Mac, notch memberi tahu apa yang terjadi: berapa lama Melatonin membuatnya terjaga, agen mana yang bekerja dan berapa lama, berapa kali Wi-Fi pulih dari putus, dan berapa banyak baterai terpakai.
 - **Keamanan nomor satu.**

diff --git a/README.zh-Hans.md b/README.zh-Hans.md
@@ -43,10 +43,10 @@
 ## 功能
 
 - **住在刘海里**：Melatonin 开启时，摄像头旁会亮起一盏暖色小灯，并显示剩余时间。将指针悬停在上面，即可展开完整的控制面板。在没有刘海的显示器上，这枚胶囊会改为挂在菜单栏下方。
-- **菜单栏开关**：只有月牙轮廓时，Mac 会进入睡眠；月牙里亮着一盏琥珀色小灯时，就不会。
+- **菜单栏开关**：只有月牙轮廓时，Mac 会进入睡眠；月牙里亮着一盏琥珀色小灯时，就不会。可以在**显示位置**里选择菜单栏、刘海，或两者都显示。
 - **定时**：1、2、4 或 8 小时，或者一直保持到你手动关闭。
 - **月亮 · 自动 · 灯**：灯下方只有一个开关。**关**时 Mac 正常睡眠，**自动**时只在智能体工作期间保持唤醒，**开**时保持唤醒直到计时结束，然后回到原来的模式。
-- **AI 智能体自动模式**：只在智能体真正工作时保持唤醒，支持 Claude Code、Codex、Hermes、OpenCode、T3 Code、Gemini CLI、Cursor Agent、Amp、Goose 和 Crush。检测时会查看每个智能体整个进程树的 CPU 活动，所以停在提示符前闲着的智能体不算在内。对 Claude Code 和 Codex 还会读取会话日志，所以模型长时间思考、安静运行的命令或后台子智能体也都算作在工作。由 T3 Code 启动的智能体会算在 T3 Code 名下。
+- **AI 智能体自动模式**：只在智能体真正工作时保持唤醒，支持 Claude Code、Codex、Hermes、OpenCode、T3 Code、Gemini CLI、Cursor Agent、Amp、Goose、Crush 和 Antigravity。检测时会查看每个智能体整个进程树的 CPU 活动，所以停在提示符前闲着的智能体不算在内。对 Claude Code 和 Codex 还会读取会话日志，所以模型长时间思考、安静运行的命令或后台子智能体也都算作在工作。由 T3 Code 启动的智能体会算在 T3 Code 名下。
 - **保持在线**：在 Melatonin 让 Mac 保持唤醒期间断网时（比如合上盖子走出办公室 Wi-Fi 范围），它会按你从已存储网络中选出的优先级列表，连接范围内的第一个网络，比如手机热点。按名称选择网络需要定位权限，因为 macOS 只向拥有该权限的应用显示 Wi-Fi 名称；你的位置本身从不使用。如果都连不上，它会重启 Wi-Fi，让 macOS 自动重新加入已存储的网络。
 - **你离开期间**：回到 Mac 时，刘海会告诉你发生了什么：保持唤醒了多久、哪些智能体工作了多久、恢复了几次 Wi-Fi 断线、用了多少电量。
 - **安全第一**：
